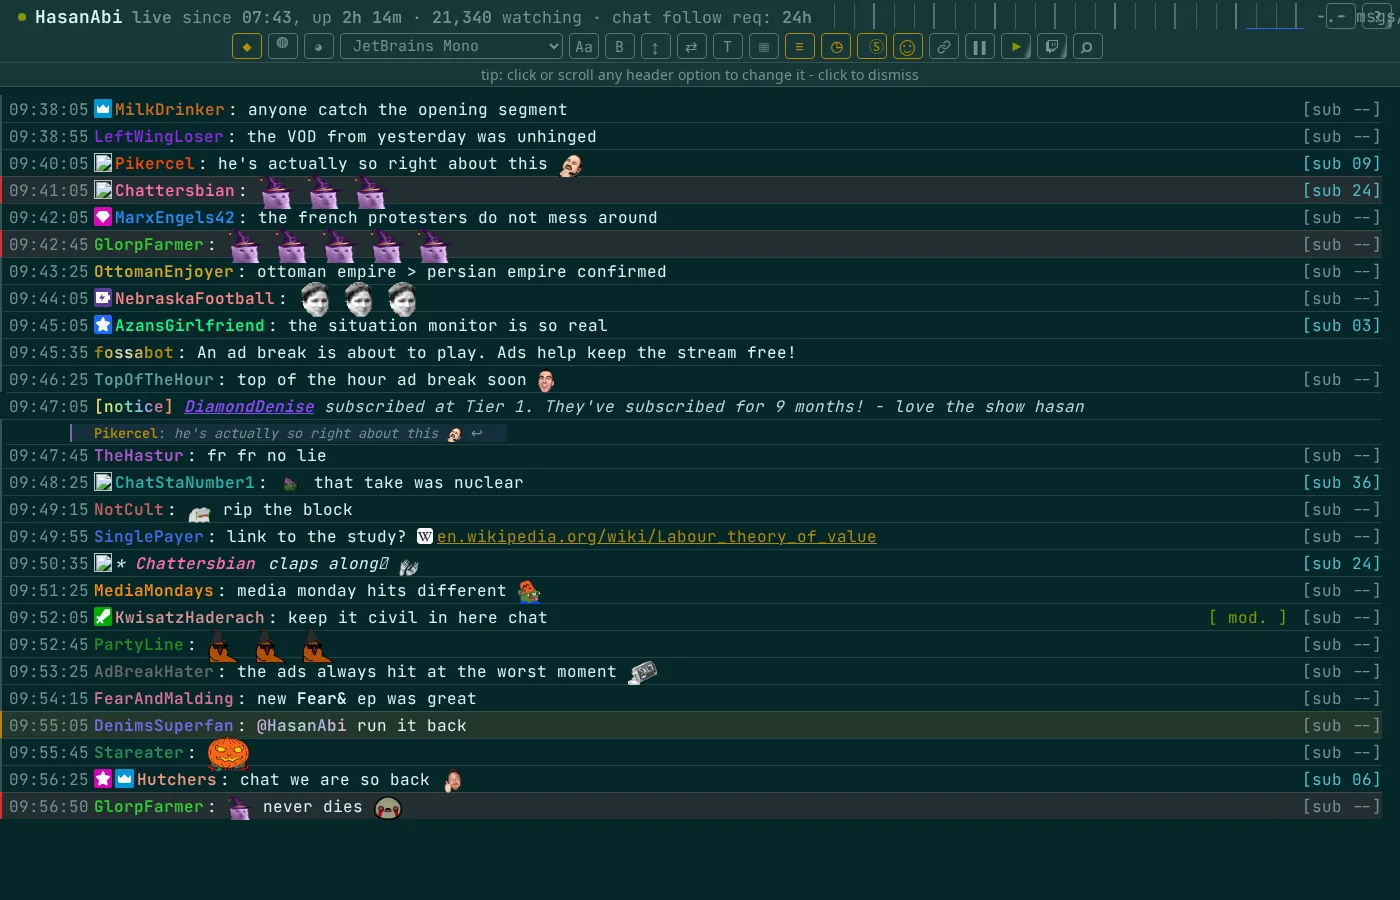
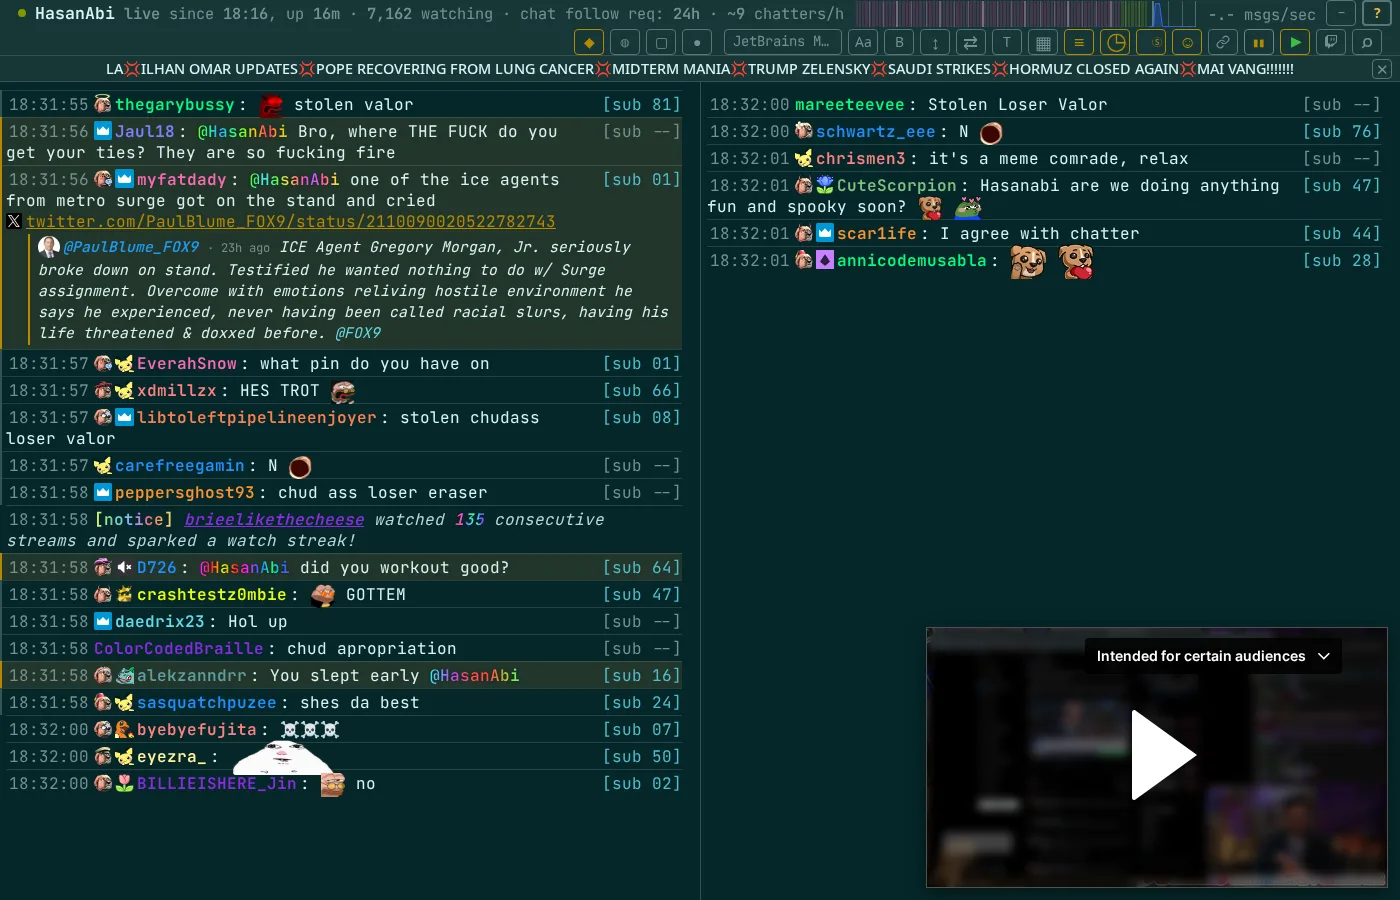
about: layouts gallery under the cta, live-stream theme shots
Fourteen ?split= screenshot cards each linking to that layout; theme
shots re-taken over the live stream.

Generated with [Devin](https://devin.ai)

diff --git a/about/index.html b/about/index.html
@@ -102,6 +102,24 @@
   <a class="cta" href="https://hasanabi.neocities.org/"><svg class="dash" aria-hidden="true"><rect/></svg>open the chat thing →</a>
   <br>
 
+  <h2>layouts</h2>
+  <div class="shots">
+    <a href="https://hasanabi.neocities.org/?split=1c"><img src="shots/split-1c.webp" alt="the 1col chat layout" loading="lazy"><span>1col chat</span></a>
+    <a href="https://hasanabi.neocities.org/?split=1ch"><img src="shots/split-1ch.webp" alt="the 1col help layout" loading="lazy"><span>1col help</span></a>
+    <a href="https://hasanabi.neocities.org/?split=2c"><img src="shots/split-2c.webp" alt="the 2col chat layout" loading="lazy"><span>2col chat</span></a>
+    <a href="https://hasanabi.neocities.org/?split=2ch"><img src="shots/split-2ch.webp" alt="the 2col chat help layout" loading="lazy"><span>2col chat help</span></a>
+    <a href="https://hasanabi.neocities.org/?split=2cvh"><img src="shots/split-2cvh.webp" alt="the 2col chat vid/help layout" loading="lazy"><span>2col chat vid/help</span></a>
+    <a href="https://hasanabi.neocities.org/?split=2cve"><img src="shots/split-2cve.webp" alt="the 2col chat vid/emotes layout" loading="lazy"><span>2col chat vid/emotes</span></a>
+    <a href="https://hasanabi.neocities.org/?split=2ce"><img src="shots/split-2ce.webp" alt="the 2col chat emotes layout" loading="lazy"><span>2col chat emotes</span></a>
+    <a href="https://hasanabi.neocities.org/?split=2x2"><img src="shots/split-2x2.webp" alt="the 2x2 layout" loading="lazy"><span>2x2</span></a>
+    <a href="https://hasanabi.neocities.org/?split=3c"><img src="shots/split-3c.webp" alt="the 3col chat layout" loading="lazy"><span>3col chat</span></a>
+    <a href="https://hasanabi.neocities.org/?split=3ch"><img src="shots/split-3ch.webp" alt="the 3col chat help layout" loading="lazy"><span>3col chat help</span></a>
+    <a href="https://hasanabi.neocities.org/?split=3cvh"><img src="shots/split-3cvh.webp" alt="the 3col chat vid/help layout" loading="lazy"><span>3col chat vid/help</span></a>
+    <a href="https://hasanabi.neocities.org/?split=3cves"><img src="shots/split-3cves.webp" alt="the 3col chat vid/emotes/stats layout" loading="lazy"><span>3col chat vid/emotes/stats</span></a>
+    <a href="https://hasanabi.neocities.org/?split=3cve"><img src="shots/split-3cve.webp" alt="the 3col chat vid/emotes layout" loading="lazy"><span>3col chat vid/emotes</span></a>
+    <a href="https://hasanabi.neocities.org/?split=3ce"><img src="shots/split-3ce.webp" alt="the 3col chat emotes layout" loading="lazy"><span>3col chat emotes</span></a>
+  </div>
+
   <h2>chat</h2>
   <ul>
     <li><b>every emote ecosystem</b> <i><a href="https://7tv.app/">7TV</a>, <a href="https://betterttv.com/">BTTV</a>, <a href="https://www.frankerfacez.com/">FFZ</a>, animated &amp; zero-width</i></li>

diff --git a/CHANGELOG.md b/CHANGELOG.md
@@ -112,6 +112,13 @@ not versions - the page ships continuously to Neocities.
   flat 50-pass guard, which workers unions' start-a-union run had
   outgrown - the guard now scales with the row's own paren count
 
+### About page
+- a layouts gallery sits under the call-to-action: all fourteen
+  `?split=` layouts as live-stream screenshot cards, each linking to
+  the page opened in that layout
+- the theme shots are re-taken over the live stream rather than the
+  old canned-chat stub
+
 ## 2026-10-13
 
 ### Emote picker
